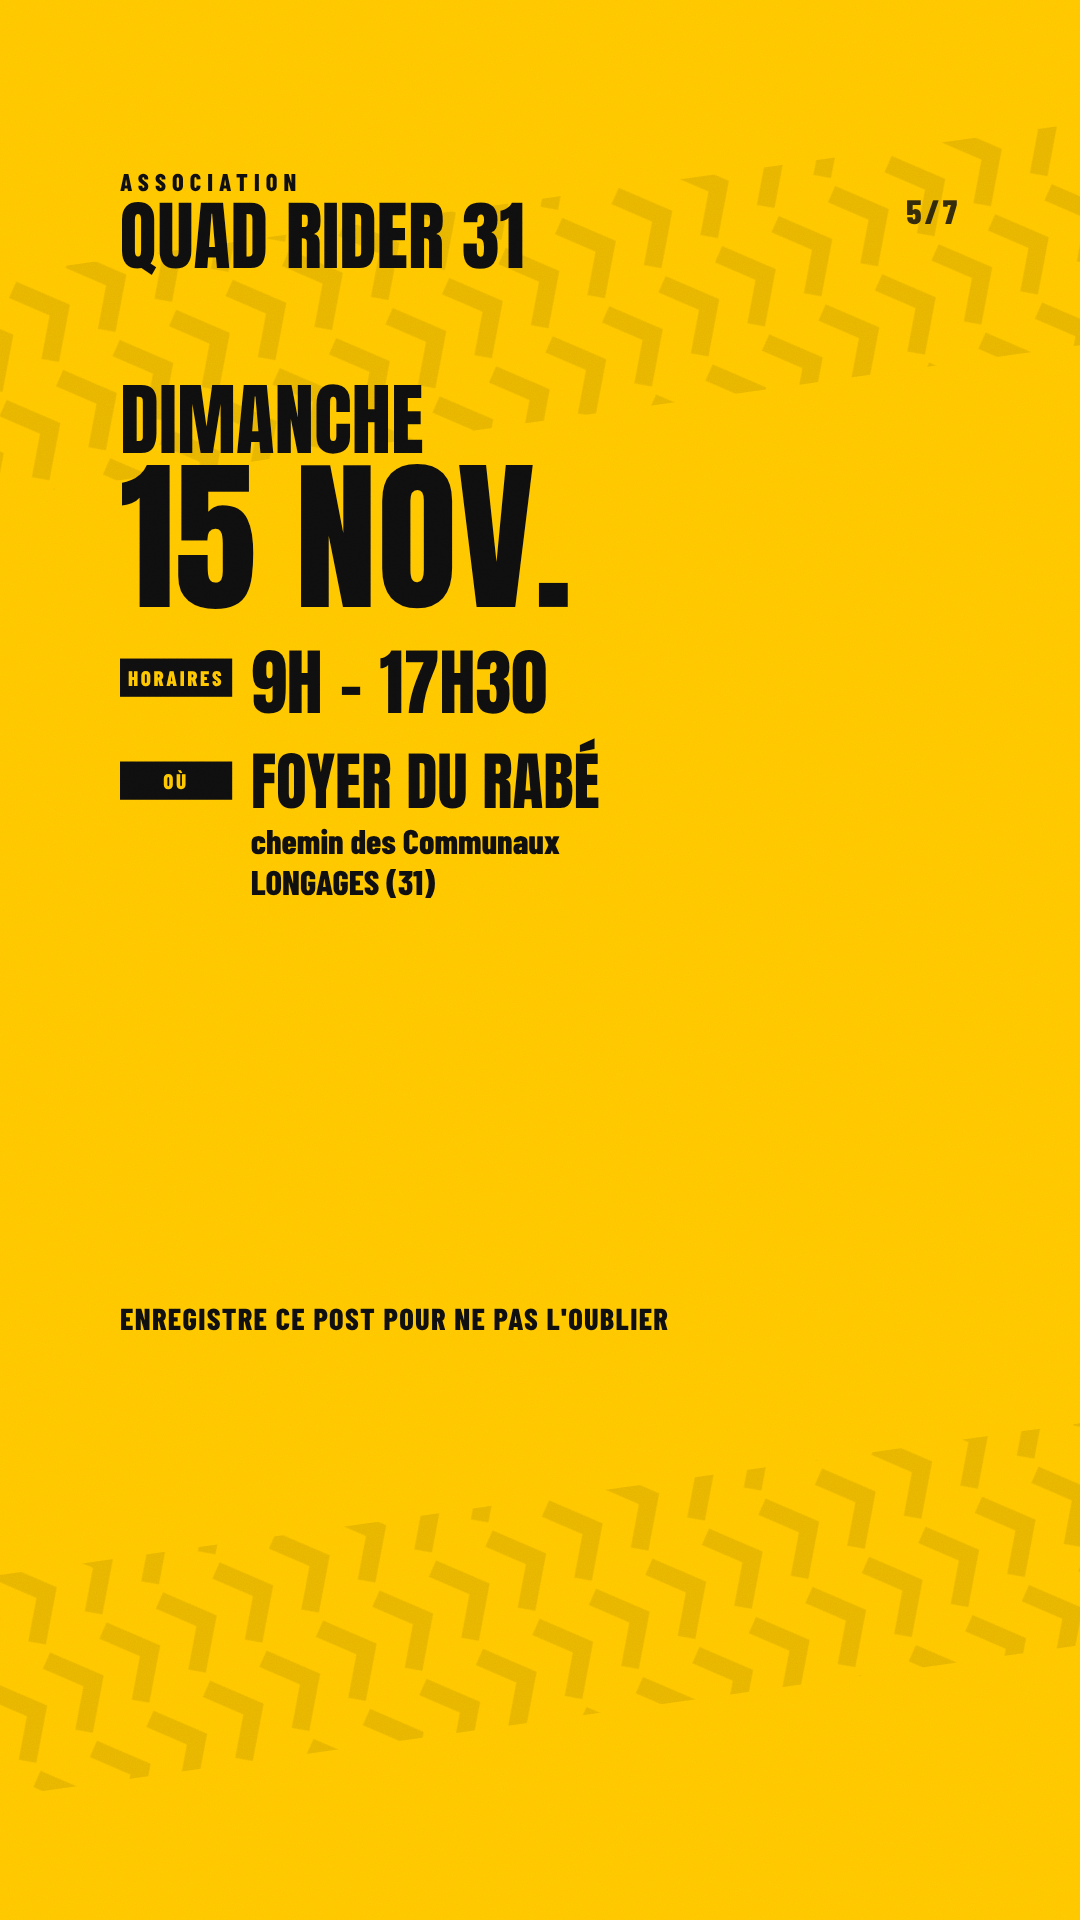
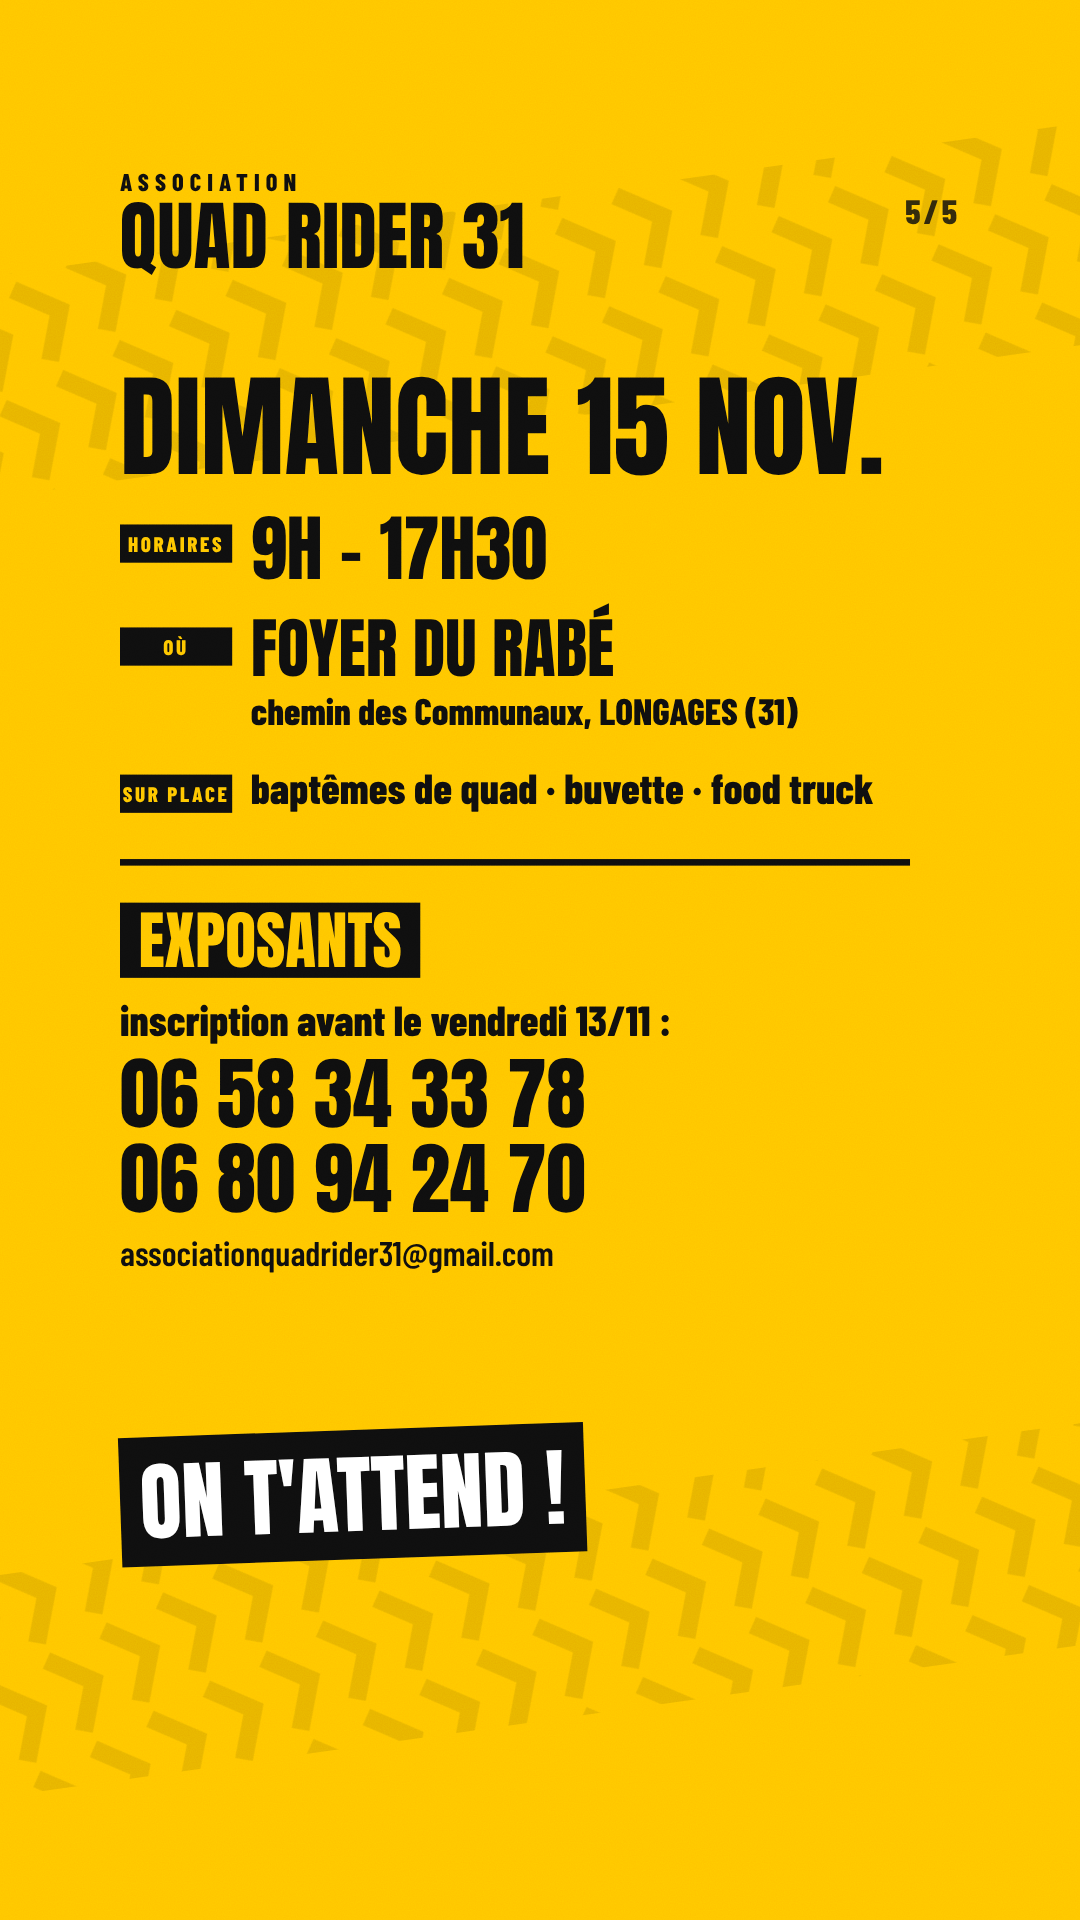
Carrousel Quad Rider 31 : les 3 dernières slides fusionnées en une slide infos claire (5 slides)
Claude-Session: https://claude.ai/code/session_01HzsHj2BN6ZSHM4Jp8HLyNY

Changed region(s): [[0.0917, 0.1875, 0.825, 0.8438], [0.8556, 0.0938, 0.8861, 0.125]]

diff --git a/promo/src/videos/QuadCarousel.tsx b/promo/src/videos/QuadCarousel.tsx
@@ -1,12 +1,12 @@
 /**
- * Carrousel TikTok (mode photo) / Snap — Vide-grenier Quad Rider 31. 7 slides 1080×1920.
+ * Carrousel TikTok (mode photo) / Snap — Vide-grenier Quad Rider 31. 5 slides 1080×1920.
  * Chaque image de la composition = une slide : npx remotion still QuadCarousel out/carrousel/slide-N.png --frame=N-1
  */
 import React from "react";
 import { AbsoluteFill, useCurrentFrame } from "remotion";
 import { BigBrand, Grain, InfoRow, Line, Photo, Pill, Q, Sub, YellowTread } from "../quad/kit";
 
-export const CAROUSEL_SLIDES = 7;
+export const CAROUSEL_SLIDES = 5;
 const S = { still: true };
 /** Texte réduit (×0,66) et marges larges : TikTok zoome un peu les photos à la publication. */
 const K = 0.66;
@@ -67,54 +67,34 @@ const Slide4 = () => (
   </AbsoluteFill>
 );
 
+/** Slide finale : infos + exposants + rendez-vous, tout sur un écran jaune très lisible. */
 const Slide5 = () => (
   <AbsoluteFill>
     <YellowTread />
-    <Box top={380}>
-      <div style={{ fontFamily: Q.title, fontSize: 120, color: Q.ink, lineHeight: 1 }}>DIMANCHE</div>
-      <div style={{ fontFamily: Q.title, fontSize: 250, color: Q.ink, lineHeight: 0.95 }}>15 NOV.</div>
+    <Box top={370}>
+      <div style={{ fontFamily: Q.title, fontSize: 170, color: Q.ink, lineHeight: 1 }}>DIMANCHE 15 NOV.</div>
       <InfoRow {...S} label="HORAIRES"><div style={{ fontFamily: Q.title, fontSize: 110, lineHeight: 1 }}>9H – 17H30</div></InfoRow>
       <InfoRow {...S} label="OÙ">
-        <div style={{ fontFamily: Q.title, fontSize: 96, lineHeight: 1 }}>FOYER DU RABÉ</div>
-        <div style={{ fontFamily: Q.body, fontWeight: 800, fontSize: 52, marginTop: 10 }}>chemin des Communaux</div>
-        <div style={{ fontFamily: Q.body, fontWeight: 800, fontSize: 52 }}>LONGAGES (31)</div>
+        <div style={{ fontFamily: Q.title, fontSize: 100, lineHeight: 1 }}>FOYER DU RABÉ</div>
+        <div style={{ fontFamily: Q.body, fontWeight: 800, fontSize: 56, marginTop: 10 }}>chemin des Communaux, LONGAGES (31)</div>
       </InfoRow>
+      <InfoRow {...S} label="SUR PLACE">
+        <div style={{ fontFamily: Q.body, fontWeight: 800, fontSize: 64, lineHeight: 1.15 }}>baptêmes de quad · buvette · food truck</div>
+      </InfoRow>
+      <div style={{ height: 10, background: Q.ink, margin: "70px 0 56px" }} />
+      <div style={{ display: "inline-block", background: Q.ink, color: Q.yellow, fontFamily: Q.title, fontSize: 96, padding: "4px 28px", lineHeight: 1.1 }}>EXPOSANTS</div>
+      <div style={{ fontFamily: Q.body, fontWeight: 800, fontSize: 64, color: Q.ink, marginTop: 24 }}>inscription avant le vendredi 13/11 :</div>
+      <div style={{ fontFamily: Q.title, fontSize: 120, color: Q.ink, lineHeight: 1.08, marginTop: 10 }}>06 58 34 33 78</div>
+      <div style={{ fontFamily: Q.title, fontSize: 120, color: Q.ink, lineHeight: 1.08 }}>06 80 94 24 70</div>
+      <div style={{ fontFamily: Q.body, fontWeight: 600, fontSize: 52, color: Q.ink, marginTop: 14 }}>associationquadrider31@gmail.com</div>
     </Box>
-    <Box top={1300}><div style={{ fontFamily: Q.body, fontWeight: 800, fontSize: 46, color: Q.ink, letterSpacing: 2 }}>ENREGISTRE CE POST POUR NE PAS L'OUBLIER</div></Box>
-  </AbsoluteFill>
-);
-
-const Slide6 = () => (
-  <AbsoluteFill>
-    <Photo src="quad/broc-buste.jpg" {...S} dark={0.55} />
-    <Box top={380}>
-      <Line {...S} size={150}>ton grenier</Line>
-      <Line {...S} size={150}>déborde ?</Line>
-      <div style={{ height: 30 }} />
-      <Line {...S} size={92} hl rot={-1.5}>prends un stand</Line>
-      <Sub {...S} size={56} style={{ marginTop: 18 }}>inscriptions jusqu'au <b style={{ color: Q.yellow }}>vendredi 13/11</b></Sub>
-    </Box>
-    <Box top={1000}>
-      <Line {...S} size={112}>06 58 34 33 78</Line>
-      <Line {...S} size={112}>06 80 94 24 70</Line>
-      <Sub {...S} size={40} style={{ marginTop: 14 }}>associationquadrider31@gmail.com</Sub>
+    <Box top={1430}>
+      <div style={{ display: "inline-block", background: Q.ink, color: Q.white, fontFamily: Q.title, fontSize: 130, padding: "0 30px", transform: "rotate(-2deg)" }}>ON T'ATTEND !</div>
     </Box>
   </AbsoluteFill>
 );
 
-const Slide7 = () => (
-  <AbsoluteFill>
-    <Photo src="quad/quad-boue.jpg" {...S} dark={0.4} pos="45% 50%" />
-    <Box top={380}><Line {...S} size={190}>on t'attend</Line><Line {...S} size={190} hl rot={-2}>dimanche</Line></Box>
-    <Box top={1100}>
-      <Line {...S} size={110} color={Q.yellow}>15 nov · Longages</Line>
-      <div style={{ height: 18 }} />
-      <Pill {...S} size={36}>partage à ton pote qui chine</Pill>
-    </Box>
-  </AbsoluteFill>
-);
-
-const SLIDES = [Slide1, Slide2, Slide3, Slide4, Slide5, Slide6, Slide7];
+const SLIDES = [Slide1, Slide2, Slide3, Slide4, Slide5];
 
 export const QuadCarousel: React.FC = () => {
   const f = useCurrentFrame();
